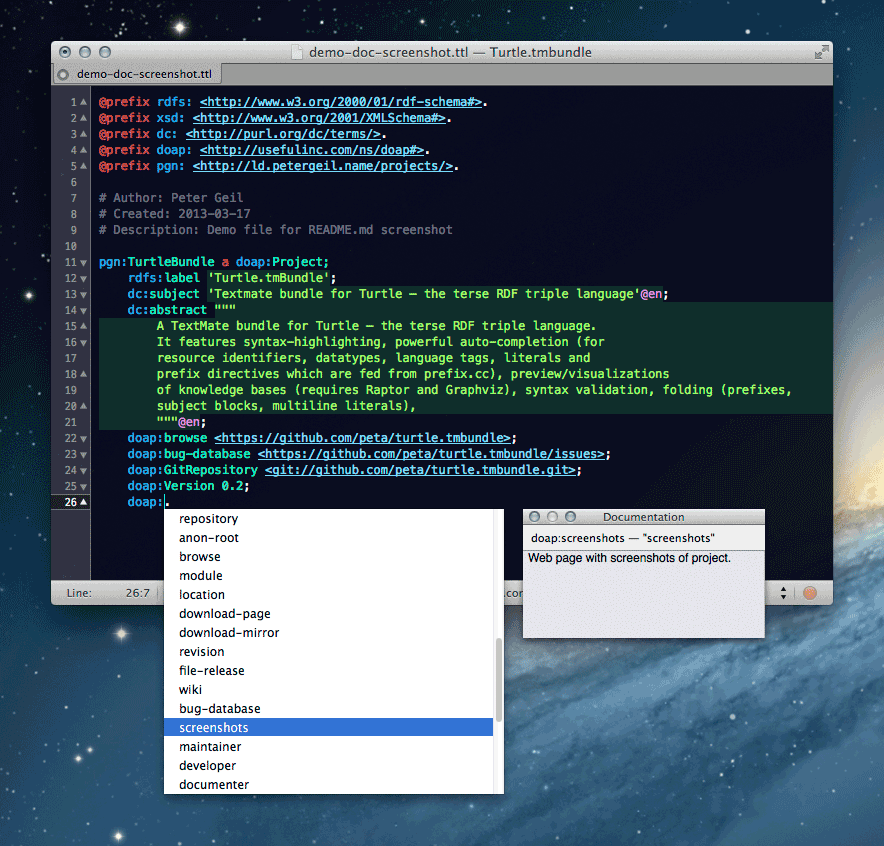
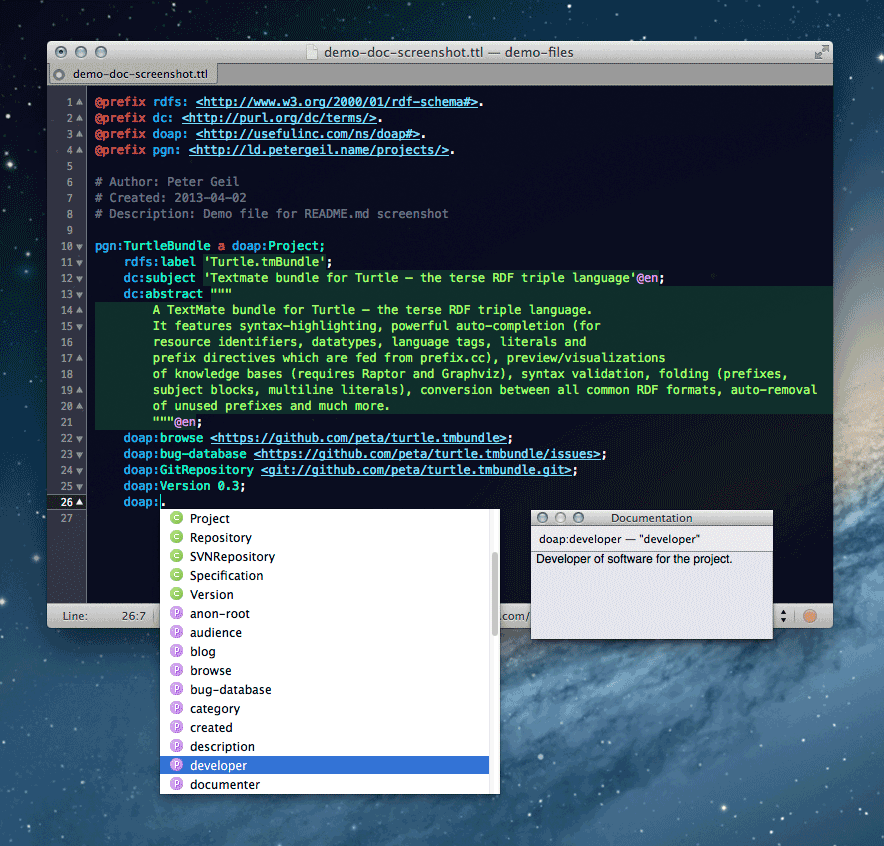
[README] Update README and screenshots to reflect recent additiions

Changed region(s): [[0.0, 0.0, 1.0, 1.0], [0.9774, 0.0615, 1.0, 0.0922], [0.1222, 0.9835, 0.1527, 1.0]]

diff --git a/README.md b/README.md
@@ -5,11 +5,12 @@ Totally awesome bundle for Turtle – the terse RDF triple language.
 
 It consists of:
 
-+ Language grammar
++ Language grammar for Turtle and SPARQL 1.1
++ Powerful (!) auto-completion (live-aggregated)
++ Documentation for classes and roles/properties at your fingertips (live-aggregated)
++ Interactive SPARQL query scratchpad
 + Some snippets (prefixes and document skeleton)
-+ Powerful (!) auto-completion (Live-aggregated)
-+ Documentation for classes and roles/properties at your fingertips (Live-aggregated)
-+ Solid syntax validation 
++ Solid syntax validation
 + Commands for instant graph visualization of a knowledge base (requires Graphviz and Raptor)
 + Automatic removal of unused prefixes
 + Conversion between all common RDF formats
@@ -20,29 +21,23 @@ See [Screenshots](#screenshots)
 
 The language grammar now covers the official W3C parser spec (as proposed in the latest CR released on Feb 19th 2013). However, there are still one/two particularities that differ, but you shouldn't notice them during your daily work. In the case you notice some weird behaviour (most obvious sign: broken syntax highlighting), please file a bug in the [project's issue tracker](https://github.com/peta/turtle.tmbundle/issues "Here at GitHub").
 
-## Snippets
-
-Right now the following snippets are included:
-
-+ Basic document skeleton
-+ "Smart" prefix/base directives (hit tab to see it work)
-+ A set of basic prefix directives (Boring! The cool kids instead use the fancy auto-completion)
+The language grammar also recognizes keywords and builtin functions from the latest SPAR[QU]L 1.1 language specification. Further there is basic autocompletion (`ALT + ESC`) for the aforementioned.
 
 ## Powerful auto-completion
 
 The Turtle bundle offers auto-completion at two levels:
 
-__NOTE: *When determining IRIs associated with a given QName prefix, local prefix declarations always have precedence over those given by prefix.cc. So when you mess up IRIs in your @prefix directives, auto-completion might not work as expected.*__
+__NOTE: *When determining IRIs associated with a given prefix name, local prefix declarations always have precedence over those given by prefix.cc. So when you mess up IRIs in your @prefix directives, auto-completion might not work as expected.*__
 
-### Auto-completion when declaring prefixes
+### Auto-completion for @prefix directives
 
 When you invoke the `Autocomplete` command (ALT + ESCAPE) within the scope of a prefix directive (right after the `@prefix ` keyword), the Turtle bundle fetches a list of all prefixes registered at [prefix.cc](http://prefix.cc) and displays them nicely in a auto-complete dropdown box. Once you have chosen an and confirmed your selection, the prefix directive is automagically updated with the prefix and its according URI. (Note: the fetched data is locally cached for 24h)
 
 __NOTE: *Auto-completion for prefix declarations is case-insensitive*__
 
-### Auto-completion for prefixed names (a.k.a. resource identifiers)
+### Auto-completion for the local part of prefixed name IRIs
 
-When you invoke the `Autocomplete` command (ALT + ESCAPE) within the scope of a prefixed name (e.g. right after `my:` or at `my:a...`), the Turtle bundle determines the actual URI that is abbreviated by the prefix and checks if there is a machine readable Vocabulary/Ontology document available (currently only RDF/S and OWL documents in the XML serialization format are supported). When one is found, it is live-aggregated and all of its Classes and Roles/Properties are extracted (along with their documentation) and nicely presented in a auto-complete dropdown box. (Note: the fetched data is locally cached for 24h)
+When you invoke the `Autocomplete` command (ALT + ESCAPE) within the scope of a prefixed name (e.g. right after `my:` or at `my:a...`), the Turtle bundle determines the actual URI that is abbreviated by the prefixed namespace and checks if there is a machine readable Vocabulary/Ontology document available (currently only RDF/S and OWL documents in the XML serialization format are supported -- but with known issues). When one is found, it is live-aggregated and all of its Classes and Roles/Properties are extracted (along with their documentation) and nicely presented in a auto-complete dropdown box. (Note: the fetched data is locally cached for 24h)
 
 __NOTE: *Auto-completion for prefixed names is case-sensitive*__
 
@@ -50,9 +45,126 @@ __NOTE: *Auto-completion for prefixed names is case-sensitive*__
 
 For now, the Turtle bundle relies on [prefix.cc](http://prefix.cc) for mapping prefixes to URIs (required for all live-aggregations). The problem however is, that the available listings only contain one IRI per prefix (the one with the highest ranking) and not every IRI offers a machine readable vocabulary/ontology representation, what in turn means that for certain prefixes no auto-completion data is available. You can help to fix this, by visiting the according page at prefix.cc (URL scheme looks like `http://prefix.cc/<THE_PREFIX>`; without angle brackets of course) and up/downvoting the according URIs.
 
+The automatic aggregation of machine-readable vocabulary/ontology descriptions is working in principle but still has some shortcomings. (See the Github issue tracker) I will overwork that part when I have some more spare time and/or the need just arises.  
+
 ## Documentation for classes, roles/properties and individuals
 
-When you invoke the `Documentation for Resource` command (CTRL + H) within the scope of a prefixed QName (e.g. `my:Dog`), the Turtle bundle looks up if there are any informal descriptions available (like description texts, HTTP URLs to human-readable docs, asf.) and if so, displays them to the user. (Note: the fetched data is locally cached for 24h)
+When you invoke the `Documentation for Resource` command (CTRL + H) within the scope of a prefixed name IRI (e.g. `my:Dog`), the Turtle bundle looks up if there are any informal descriptions available (like description texts, HTTP URLs to human-readable docs, asf.) and if so, displays them to the user. (Note: the fetched data is locally cached for 24h)
+
+__NOTE: *That function also suffers from the issues outlined in the previous section.*__
+
+## Interactive SPARQL query scratchpad ##
+
+All (web-based) query forms that crossed by cursor had one thing in common – they suck(ed). Syntax highlighting? Efficient workflows (like trial-error-roundtripping)? Of course NOT. So I decided to add something similar to TextMate. The *Execute SPARQL Query* command may seem self-explaining, but it hides two important features:
+
++ first of all, it supports multiple sections in a single document
++ it is aware of custom magic comments types for specifying different SPARQL Query/Update services (aka *endpoints*)
++ query results are nicely displayed as textual tables (when supported by the SPARQL endpoint) in a preview window
+
+### Multiple sections/snippets syntax
+
+You can have one document contain multiple (independent) sections. This is e.g. useful when developing complex queries where we usually follow an iterative approach. When running the `Execute SPARQL Query` command, it will automatically figure out what your intention is and act accordingly. It assumes that you will always do one of the following tasks:
+
+1. Execute the whole document
+2. Execute your current selection
+3. Execute the section where your cursor is currently positioned in 
+
+A simple document with multiple sections could look like this:
+
+```
+
+	#QUERY  <http://example1.com/ds/query>
+	#UPDATE <http://example1.com/ds/update>
+
+	PREFIX rdfs: <http://www.w3.org/2000/01/rdf-schema#>
+	PREFIX : <urn:example#>
+
+	INSERT DATA { :instanceA rdfs:label 'Human-readable label of instanceA'. }
+
+	#---
+	PREFIX : <urn:example#>
+	SELECT (COUNT(?subj) AS ?n_subjs)
+	WHERE { ?subj a :ClassA }
+
+	#---
+	PREFIX : <urn:example#>
+	SELECT ?g
+	WHERE { GRAPH ?g {} }
+	
+```
+
+As you probably notice, multiple sections are separated with the marker string `#---` written on a separate line.
+
+###  Magic comment syntax for endpoints
+
+These magic comments have the following syntax:
+
++ `#QUERY <http://example.org/sparql` to describe a SPARQL endpoint (read-only)
++ `#UPDATE <http://example.org/update` to describe a SPARUL endpoint (write-only)
+
+You can specify multiple magic comments throughout your document. When executing the query command, it will automatically determine the required endpoint type depending on the SPARQL commands that occur in your query. After that, it scans your document for magic comments where it uses the following strategies:
+
++ _Top-down:_ When the whole document is used as query, it scans every line beginning at the top until it finds a suitable magic comment 
++ _Bottom-up:_ When only the current section/selection is queried, it scans every line from bottom to top beginning at the line where the section/selection starts until it finds a suitable magic comment
+
+When no suitable magic comment was found, the command consults TextMate's environment variables (can be set in the application preferences). More precisely it looks for the following two variables: 
+
++ `TM_SPARQL_QUERY`
++ `TM_SPARQL_UPDATE`
+
+that should contain the HTTP(S) URL to SPAR[QU]L endpoints. When even this fails, YOU (the user) are prompted to enter an endpoint URL. 
+
+Here is an example document with multiple sections and multiple endpoint magic comments:
+
+```
+
+	#QUERY  <http://example.com/ds/query>                 
+	#UPDATE <http://example.com/tbox/update>
+	PREFIX rdfs: <http://www.w3.org/2000/01/rdf-schema#>  \
+	PREFIX : <urn:example#>                               |
+	INSERT DATA {                                         | http://example.com/tbox/update
+	    :ClassB a rdfs:Class;                             |
+	        rdfs:subClassOf :ClassA.                      |
+	}                                                     /
+
+	#---
+	#UPDATE <http://example.com/abox/update>
+	PREFIX : <urn:example#>                               \
+	INSERT DATA {                                         |
+	    :instA a :ClassB;                                 | http://example.com/abox/update
+	        rdfs:label 'Instance of ClassB'.              |
+	}                                                     /
+
+	#---
+	PREFIX : <urn:example#>                               \
+	SELECT (COUNT(?subj) AS ?n_subjs)                     | http://example.com/ds/query
+	WHERE { ?subj a :ClassA }                             /
+
+	#---
+	#QUERY <http://dbpedia.org/sparql>                    
+	SELECT DISTINCT ?s ?label                             \
+	WHERE {                                               | http://dbpedia.org/sparql
+	    ?s <http://dbpedia.org/property/season> ?o .      |
+	    ?s rdfs:label ?label                              |
+	}                                                     /
+
+	#---
+	BASE <http://dbpedia.org/>                            \
+	SELECT DISTINCT ?s ?label                             |
+	WHERE {                                               | http://dbpedia.org/sparql
+	    ?s rdfs:label ?label                              |
+	    FILTER( CONTAINS( STR(?label), 'The Wire') )      |
+	}                                                     /
+	
+```
+
+## Snippets
+
+Right now the following snippets are included:
+
++ Basic document skeleton
++ "Smart" prefix/base directives (hit tab to see it work)
++ A set of basic prefix directives (Boring! The cool kids instead use the fancy auto-completion)
 
 ## Syntax validation
 
@@ -86,6 +198,8 @@ The Turtle bundle is now officially available through the Textate bundle install
 ## Screenshots
 
 ![Screenshot of expanded bundle menu](./Support/img/screenshot-menu.png "Screenshot of expanded bundle menu")
+
+![Screenshot showing SPARQL execution](./Support/img/screenshot-sparql-exec.png "Screenshot showing SPARQL execution")
 
 ![Screenshot editor showing auto-completion for resource identifier and documentation](./Support/img/screenshot-editor.png "Screenshot editor showing auto-completion for resource identifier and documentation")
 
